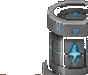
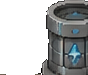
Re-cut env props with color-distance keying (stop eating sprite blacks)
- Previous brightness key removed dark outlines/shadows wherever they touched the dark bg (cave interior, powerplant frame, etc.)
- Now key only pixels close to the flat neutral bg color, preserving the sprites' own blacks; cave arch correctly see-through
- Re-installed all 11 prop arts (streetlamp now the full lit lamp). Bumped ART_V

diff --git a/index.html b/index.html
@@ -5,7 +5,7 @@
   <meta name="viewport" content="width=device-width, initial-scale=1.0, maximum-scale=1.0, user-scalable=no">
   <title>Lukeymon</title>
   <link href="https://fonts.googleapis.com/css2?family=Press+Start+2P&display=swap" rel="stylesheet">
-  <link rel="stylesheet" href="style.css?v=3.19.3">
+  <link rel="stylesheet" href="style.css?v=3.19.4">
 </head>
 <body>
 
@@ -29,7 +29,7 @@
           <p class="title-tagline">Catch ʼem with kindness!</p>
           <div class="title-scene">
             <span class="title-ground"></span>
-            <img class="title-hero" src="art/player/side.png?v=3.19.3" alt="">
+            <img class="title-hero" src="art/player/side.png?v=3.19.4" alt="">
             <img class="title-pika" src="sprites/025.png" alt="">
             <span class="title-spark sp1">⚡</span>
             <span class="title-spark sp2">⚡</span>
@@ -441,12 +441,12 @@
   </div><!-- /device -->
   <div id="version-bar">
     <button id="hard-refresh" title="Hard refresh — force reload the latest version">⟳</button>
-    <span id="version">v3.19.3</span>
+    <span id="version">v3.19.4</span>
   </div>
 
-  <script src="world.js?v=3.19.3"></script>
-  <script src="data.js?v=3.19.3"></script>
-  <script src="game.js?v=3.19.3"></script>
-  <script src="net.js?v=3.19.3"></script>
+  <script src="world.js?v=3.19.4"></script>
+  <script src="data.js?v=3.19.4"></script>
+  <script src="game.js?v=3.19.4"></script>
+  <script src="net.js?v=3.19.4"></script>
 </body>
 </html>

diff --git a/game.js b/game.js
@@ -902,7 +902,7 @@ function buildTileCache() {
 }
 
 // ── Sliced biome art (per-zone tiles, trees, shop building) ──────────
-const ART_V = '22';   // bump to bust the image cache when art files change
+const ART_V = '23';   // bump to bust the image cache when art files change
 const TILE_ART = {
   0: { 0: 3, 1: 3, 3: 3 }, 1: { 1: 3, 3: 3, 4: 3 }, 2: { 1: 3, 5: 3 },
   3: { 0: 3, 1: 3, 3: 3 }, 4: { 0: 3, 1: 3, 7: 3 }, 5: { 0: 3, 1: 3, 11: 1 },
